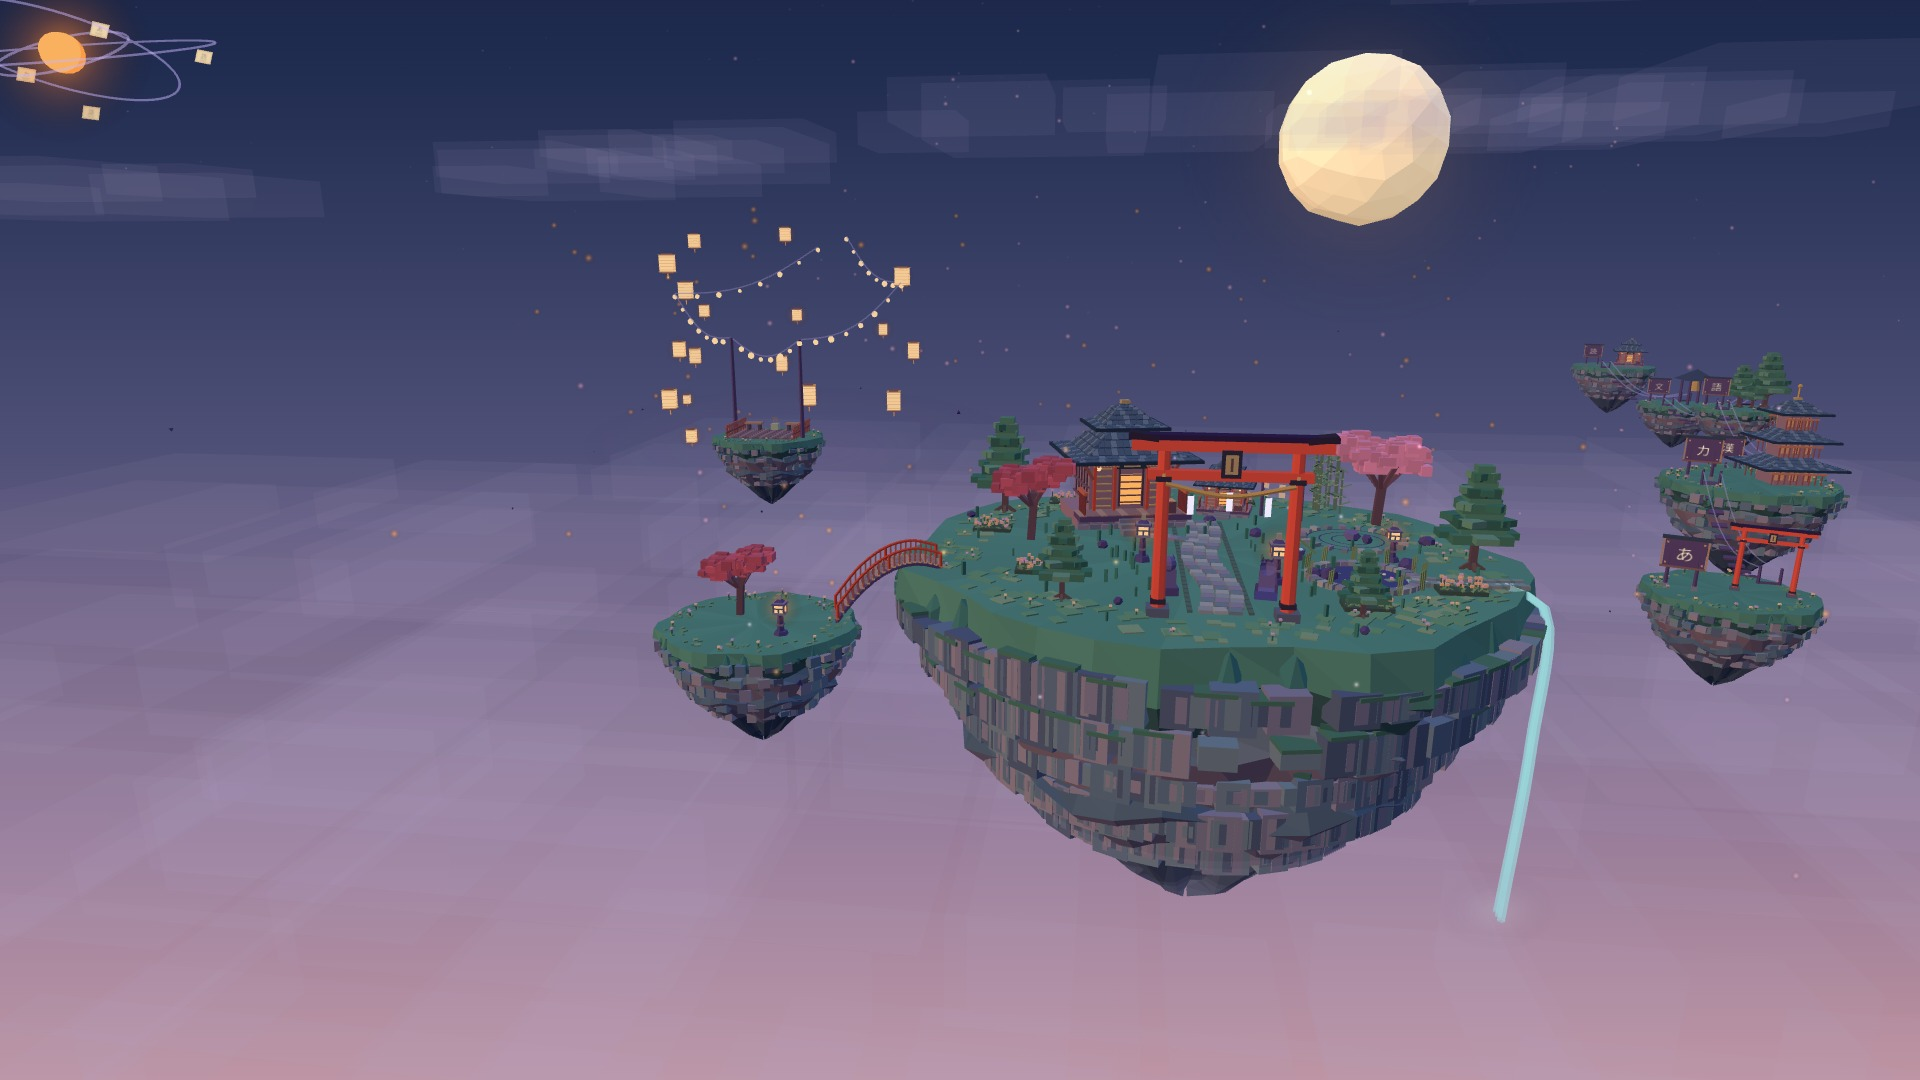
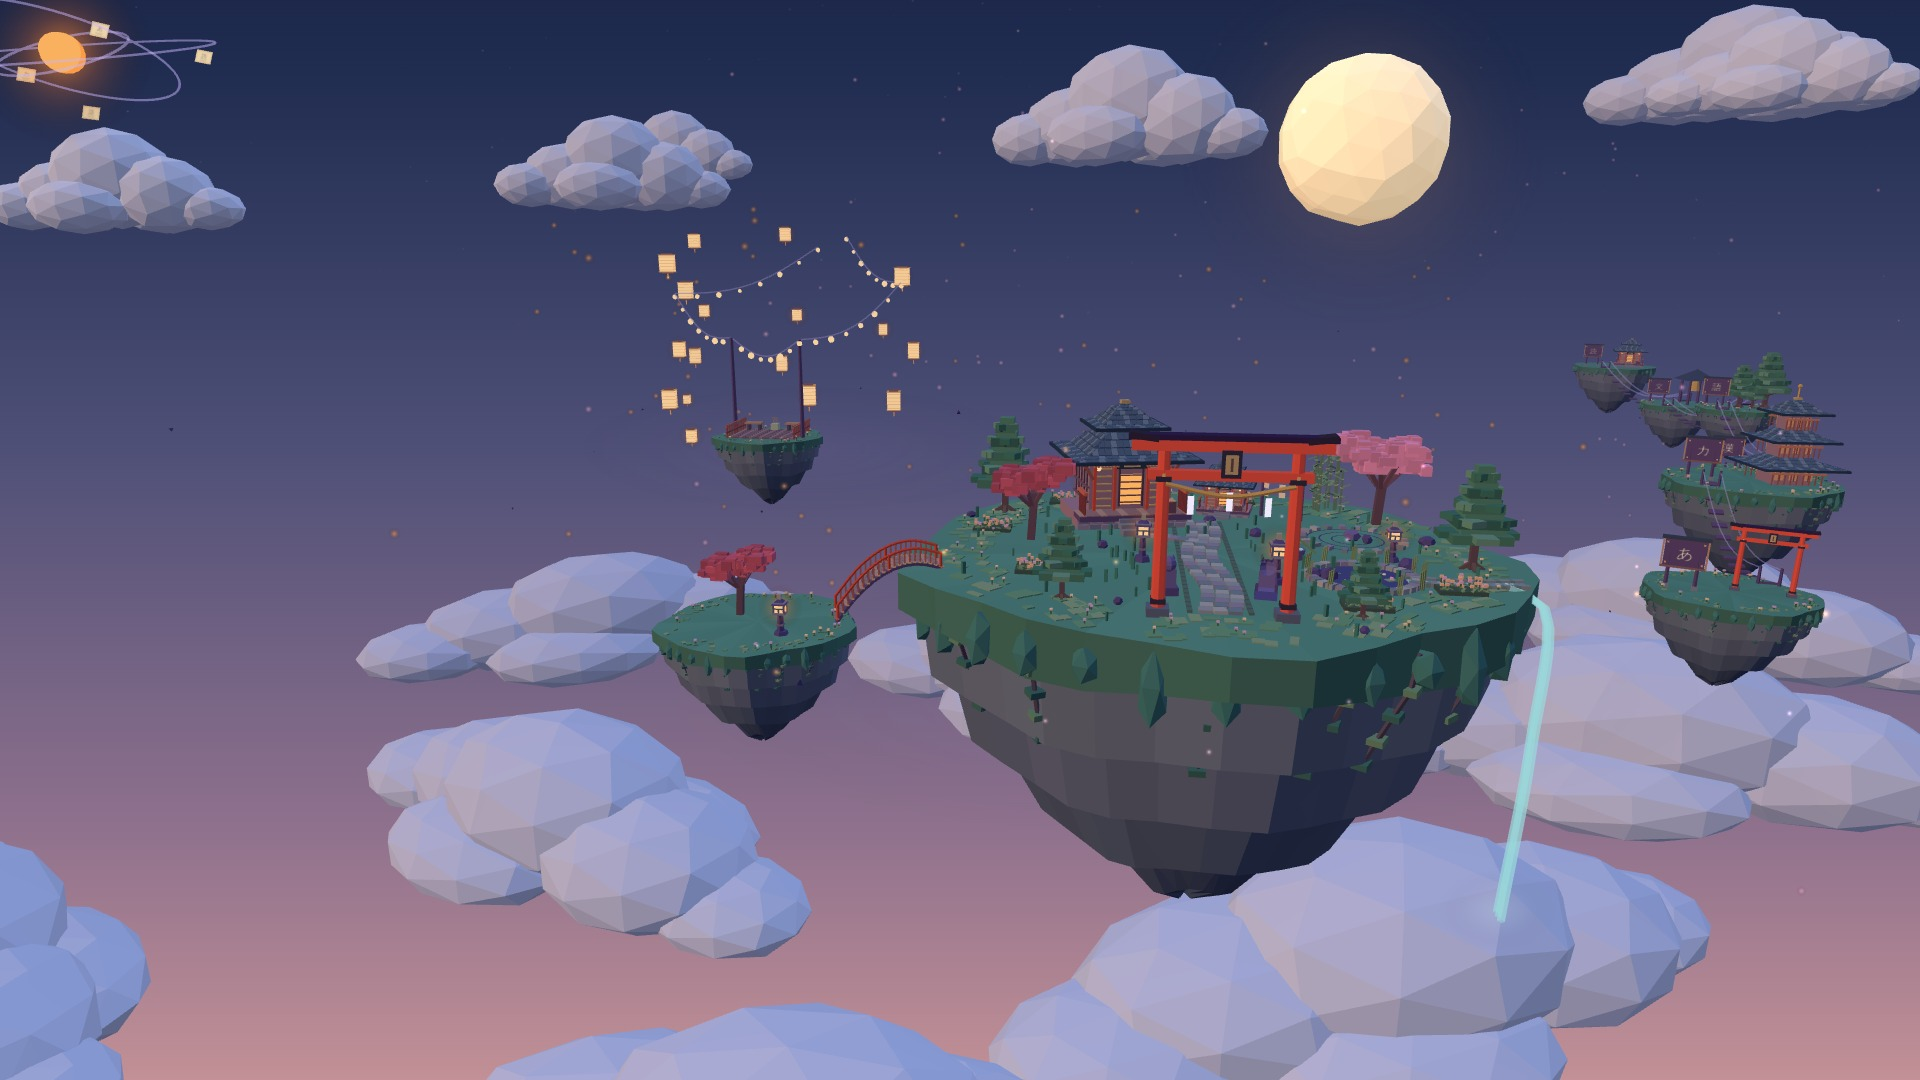
Clean up island cliff surfaces and rebuild visible faceted clouds

diff --git a/app/WorldScene.tsx b/app/WorldScene.tsx
@@ -130,16 +130,18 @@ const M = {
    +0.07r so every existing landmark and bridge keeps its ground contact. */
 function makeRockIsland(radius: number, far = false) {
   const island = new THREE.Group();
-  const sides = 36;
-  const levels = [[0.07, 1], [-0.06, 1.02], [-0.2, 0.91], [-0.27, 0.94], [-0.49, 0.76], [-0.55, 0.8], [-0.81, 0.51], [-1.08, 0.24], [-1.22, 0.02]];
-  const palette = [0x568d78, 0x446b66, 0x71818c, 0x9b8593, 0x526779, 0x7b758b, 0x45566c, 0x39485f];
+  const sides = 32;
+  // One exposed shell: paired rings form actual stone shelves, without a second
+  // layer of intersecting cuboids or coplanar faces that flicker during flight.
+  const levels = [[0.07, 1], [-0.08, 1], [-0.08, 0.93], [-0.32, 0.9], [-0.32, 0.83], [-0.57, 0.77], [-0.57, 0.68], [-0.86, 0.53], [-0.86, 0.43], [-1.12, 0.22], [-1.23, 0.04]];
+  const palette = [0x487765, 0x72857f, 0x6d7887, 0x8b9297, 0x646e82, 0x788390, 0x59677c, 0x74808a, 0x515e75, 0x48566d];
   const vertices: number[] = [];
   const colors: number[] = [];
   const point = (level: number, i: number) => {
     const a = (i % sides) / sides * Math.PI * 2;
-    const crag = 1 + Math.sin(a * 7 + 0.4) * 0.035 + Math.cos(a * 11) * 0.022;
+    const crag = 1 + Math.sin(a * 5 + 0.4) * 0.045 + Math.cos(a * 9) * 0.025;
     const [y, r] = levels[level];
-    return new THREE.Vector3(Math.cos(a) * r * radius * crag, y * radius + (level === 0 ? 0 : Math.sin(a * 9 + level) * radius * 0.035), Math.sin(a) * r * radius * crag);
+    return new THREE.Vector3(Math.cos(a) * r * radius * crag, y * radius + (level === 0 ? 0 : Math.sin(a * 5 + 0.4) * radius * 0.028), Math.sin(a) * r * radius * crag);
   };
   const face = (a: THREE.Vector3, b: THREE.Vector3, c: THREE.Vector3, color: number, shade: number) => {
     const tint = new THREE.Color(color).multiplyScalar(shade * (far ? 0.9 : 1));
@@ -150,9 +152,11 @@ function makeRockIsland(radius: number, far = false) {
     face(new THREE.Vector3(0, radius * 0.07, 0), point(0, i + 1), point(0, i), 0x568d78, 0.94 + (i % 5) * 0.025);
     for (let level = 0; level < levels.length - 1; level++) {
       const a = point(level, i), b = point(level, i + 1), c = point(level + 1, i), d = point(level + 1, i + 1);
-      face(a, b, c, palette[level], 0.86 + (i % 4) * 0.055);
-      face(b, d, c, palette[level], 0.9 + (i % 3) * 0.05);
+      const shade = 0.92 + Math.sin(i * 1.7 + Math.floor(level / 2)) * 0.065;
+      face(a, b, c, palette[level], shade);
+      face(b, d, c, palette[level], shade);
     }
+    face(new THREE.Vector3(0, -radius * 1.25, 0), point(levels.length - 1, i), point(levels.length - 1, i + 1), 0x48566d, 0.9);
   }
   const geometry = new THREE.BufferGeometry();
   geometry.setAttribute("position", new THREE.Float32BufferAttribute(vertices, 3));
@@ -534,29 +538,31 @@ function makeMoon(radius: number) {
   return moon;
 }
 
+/* Opaque, low-poly billows have readable volume without translucent box
+   overlaps. Faceted lobes preserve the world's angular art direction. */
 function makeCloud(scale: number, flat = false) {
-  const cloud = new THREE.Group();
-  const material = new THREE.MeshBasicMaterial({ color: 0xb3a4c8, transparent: true, opacity: flat ? 0.065 : 0.08, depthWrite: false });
-  const blobs = 4 + Math.floor(scale);
-  for (let index = 0; index < blobs; index += 1) {
-    const blob = new THREE.Mesh(new THREE.BoxGeometry(1.6 + (index % 3) * 0.8, 1.2 + (index % 3) * 0.3, 1.6 + (index % 3) * 0.8), material);
-    blob.position.set(index * 1.1 - blobs * 0.5, (index % 2) * 0.3, (index % 3) * 0.6 - 0.6);
-    blob.scale.y = flat ? 0.26 : 0.42;
-    cloud.add(blob);
-  }
-  const parts = cloud.children.map((object) => {
-    const mesh = object as THREE.Mesh;
-    mesh.updateMatrix();
-    mesh.geometry.applyMatrix4(mesh.matrix);
-    return mesh.geometry;
+  const lobes = [
+    [-2.35, -0.22, 0.02, 0.95, 0.63, 0.85],
+    [-1.25, 0.05, -0.2, 1.32, 0.95, 1.05],
+    [0, 0.48, 0, 1.48, 1.3, 1.2],
+    [1.35, 0.06, 0.1, 1.18, 1, 1.05],
+    [2.3, -0.28, 0, 0.88, 0.57, 0.75],
+    [-0.45, -0.26, 0.8, 1.2, 0.7, 0.86],
+    [0.7, -0.22, -0.65, 1.25, 0.7, 0.85],
+  ];
+  const parts = lobes.map(([x, y, z, rx, ry, rz]) => {
+    const geometry = new THREE.IcosahedronGeometry(1, 1);
+    geometry.scale(rx, ry, rz);
+    geometry.translate(x, y, z);
+    return geometry;
   });
-  const merged = mergeGeometries(parts);
-  if (merged) {
-    cloud.clear();
-    cloud.add(new THREE.Mesh(merged, material));
-    parts.forEach((part) => part.dispose());
-  }
-  cloud.scale.setScalar(scale);
+  const geometry = mergeGeometries(parts)!;
+  parts.forEach((part) => part.dispose());
+  const cloud = new THREE.Mesh(geometry, new THREE.MeshLambertMaterial({
+    color: flat ? 0xc4c8dd : 0xd1d5e4, emissive: 0x657189, emissiveIntensity: 0.35, flatShading: true,
+  }));
+  cloud.scale.set(scale, scale * (flat ? 0.58 : 0.95), scale * 0.9);
+  cloud.rotation.y = Math.sin(scale * 7.3) * 0.55;
   return cloud;
 }
 
@@ -1033,16 +1039,16 @@ function buildWorld(glow: THREE.Texture, soft: THREE.Texture) {
     [-16, -8.8, 14, 5.5], [2, -7.9, -44, 6.5], [36, -7.4, -10, 5], [-34, -8.2, 2, 5.5],
   ];
   cloudSeaSpecs.forEach(([x, y, z, s]) => {
-    const cloud = makeCloud(s, true);
-    cloud.position.set(x, y, z);
+    const cloud = makeCloud(s * 0.60, true);
+    cloud.position.set(x, y - 4, z);
     world.add(cloud);
   });
   const midCloudSpecs: Array<[number, number, number, number]> = [
-    [-28, 10.5, -33, 2.6], [-2, 13, -36, 3.2], [14, 12, -30, 2.2], [24, 14, -44, 3.4], [-30, 12.5, -46, 2.4], [16, 17, -24, 2],
+    [-28, 10.5, -33, 2.6], [-2, 13, -36, 3.2], [26, 14, -32, 2.2], [32, 16, -48, 3.4], [-30, 12.5, -46, 2.4], [30, 19, -24, 2],
     [-40, 14, 8, 2.6], [-34, 8.5, -9, 1.8],
   ];
   midCloudSpecs.forEach(([x, y, z, s]) => {
-    const cloud = makeCloud(s);
+    const cloud = makeCloud(s * 0.7);
     cloud.position.set(x, y, z);
     world.add(cloud);
   });

diff --git a/app/WorldDetails.ts b/app/WorldDetails.ts
@@ -48,22 +48,8 @@ export function islandDetails(radius: number) {
   const stone = new Blocks(), plants = new Blocks();
   const rand = random(Math.round(radius * 1000));
   const n = Math.round(radius * 22);
-  const rock = [0x617589, 0x71858e, 0x837e91, 0x535f77, 0x918895];
-  // Broken shelves and masonry-sized seams under the continuous terrain shell.
-  for (let row = 0; row < 5; row++) {
-    const y = -radius * (0.08 + row * 0.165);
-    const extent = [1.01, 0.93, 0.82, 0.73, 0.57][row];
-    for (let i = 0; i < n; i++) {
-      if (rand() < 0.24) continue;
-      const angle = (i + (row % 2) * 0.5) / n * Math.PI * 2;
-      const r = radius * extent;
-      const h = radius * (0.035 + rand() * 0.095);
-      stone.box([Math.cos(angle) * r, y, Math.sin(angle) * r], [radius * 0.09, h, radius * (0.09 + rand() * 0.04)], rock[(i + row) % rock.length], [0, -angle, 0]);
-      if (row < 2 && i % 3 === 0) {
-        plants.box([Math.cos(angle) * (r + 0.02), y + h * 0.55, Math.sin(angle) * (r + 0.02)], [radius * 0.095, radius * 0.012, radius * 0.11], 0x49745e, [0, -angle, 0]);
-      }
-    }
-  }
+  // Rock shelves are part of the continuous island shell; decorations only
+  // add roots and vegetation, avoiding overlapping cladding on the cliff faces.
   // Ragged hanging roots: short angular segments hug the rock instead of dangling
   // across bridge approaches. Fine leaves disappear only once they are subpixel.
   for (let i = 0; i < 18; i++) {
